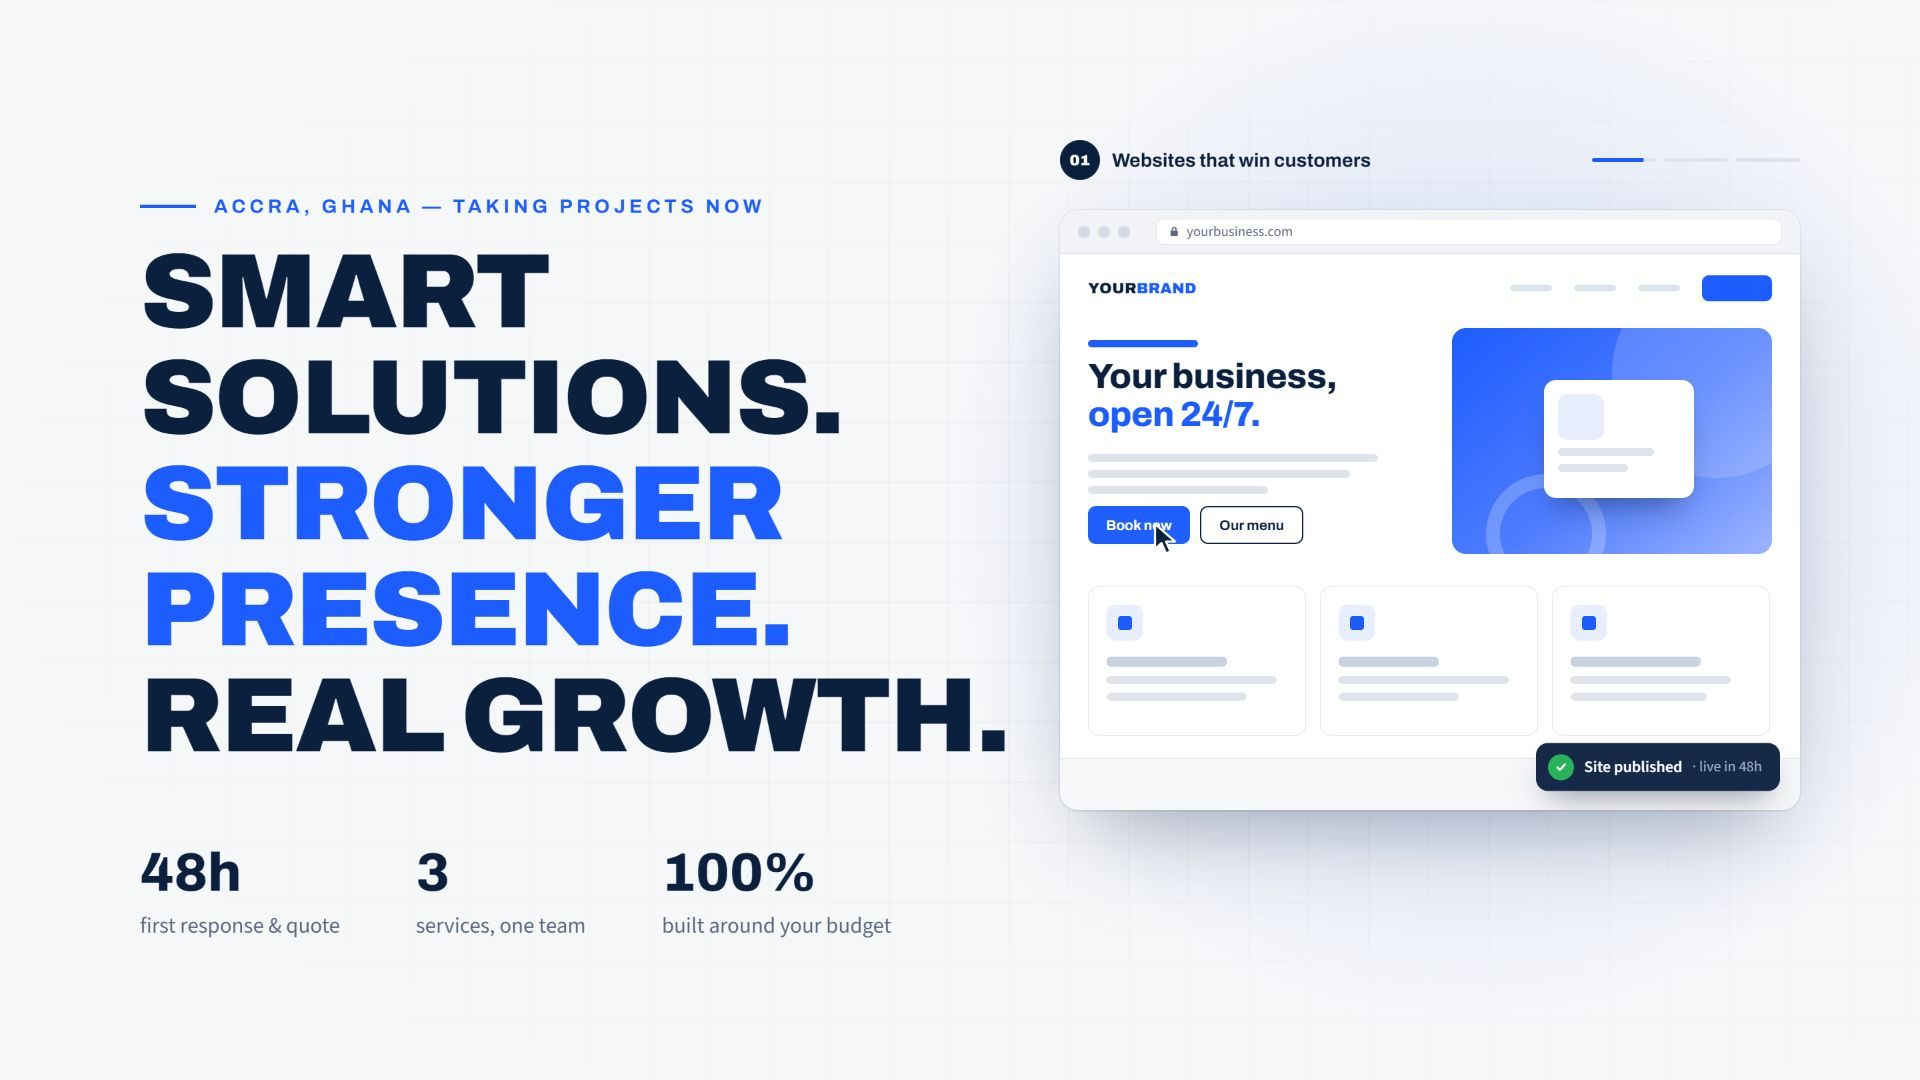
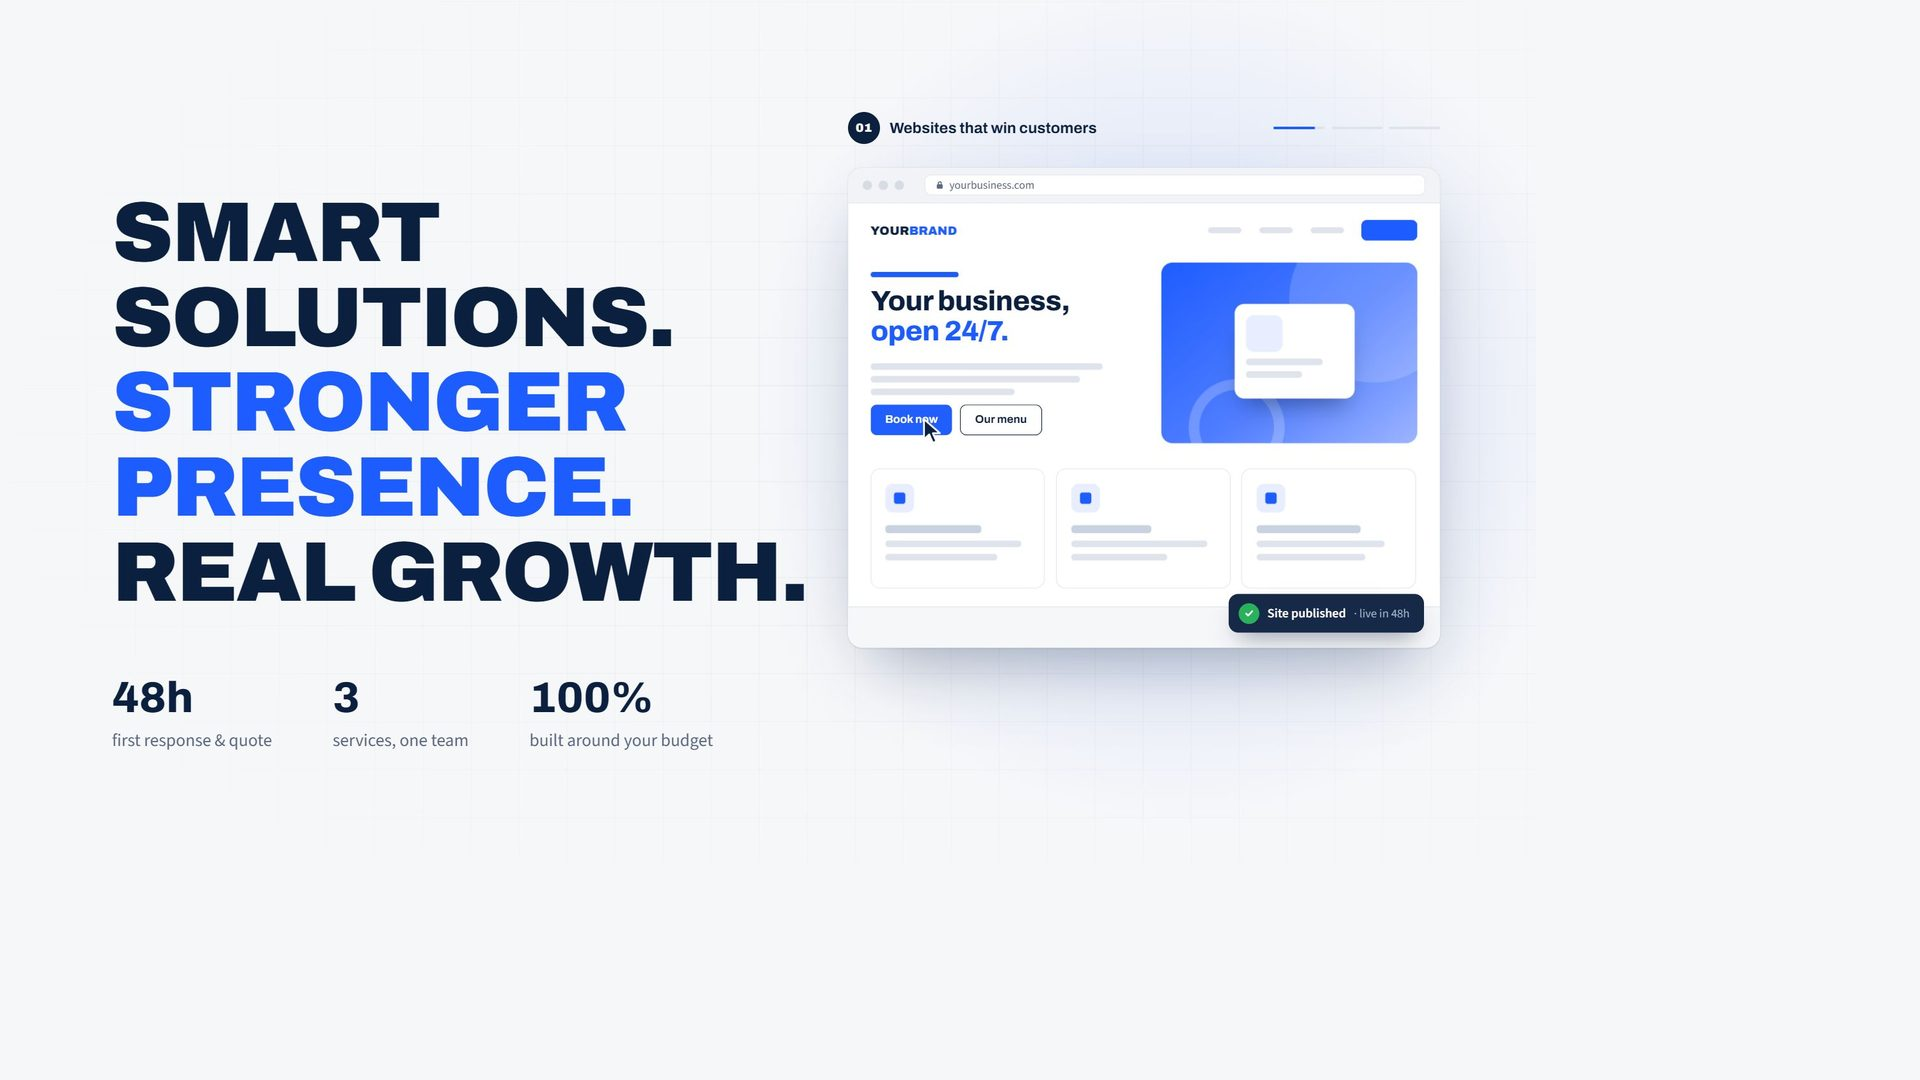
Remove hero availability tagline and duplicate introduction

diff --git a/src/pages/Home.jsx b/src/pages/Home.jsx
@@ -19,9 +19,6 @@ export default function Home() {
       <section className="hero hero-with-motion hero-fullscreen">
         <div className="container hero-motion-layout">
           <div className="hero-mobile-intro">
-            <div className="hero-mobile-only">
-              <span className="kicker">Accra, Ghana — taking projects now</span>
-            </div>
             <h1 className="display hero-accessible-heading">
               <span style={{ display: "block" }}>Smart solutions.</span>
               <span style={{ display: "block" }} className="blue">Stronger presence.</span>
@@ -33,22 +30,6 @@ export default function Home() {
       </section>
 
       <section className="section" id="home-services">
-        <div className="container">
-          <div className="hero-motion-copy">
-            <p className="lede">
-              IJW Labs is a web and business software development company based in Accra, Ghana. We build websites, custom business systems and professional photo edits for organisations in Ghana and worldwide.
-            </p>
-            <div className="hero-ctas">
-              <Link className="btn btn-primary" to="/contact/">Reach us</Link>
-              <Link className="btn btn-outline" to="/services/">See what we build</Link>
-            </div>
-            <div className="hero-stats hero-mobile-only">
-              <div><strong>48h</strong><span>first response & quote</span></div>
-              <div><strong>3</strong><span>services, one team</span></div>
-              <div><strong>100%</strong><span>built around your budget</span></div>
-            </div>
-          </div>
-        </div>
         <div className="container">
           <Reveal className="sec-head">
             <span className="kicker">What we do</span>

diff --git a/public/motion/hero-motion.html b/public/motion/hero-motion.html
@@ -323,10 +323,6 @@
   <div class="abs glow" id="glow"></div>
 
   <!-- left: headline -->
-  <div class="abs kicker">
-    <span class="k-line"></span>
-    <span class="k-text">Accra, Ghana &mdash; taking projects now</span>
-  </div>
   <h1 class="abs hl">
     <span class="ln"><span>Smart</span></span>
     <span class="ln"><span>Solutions.</span></span>
